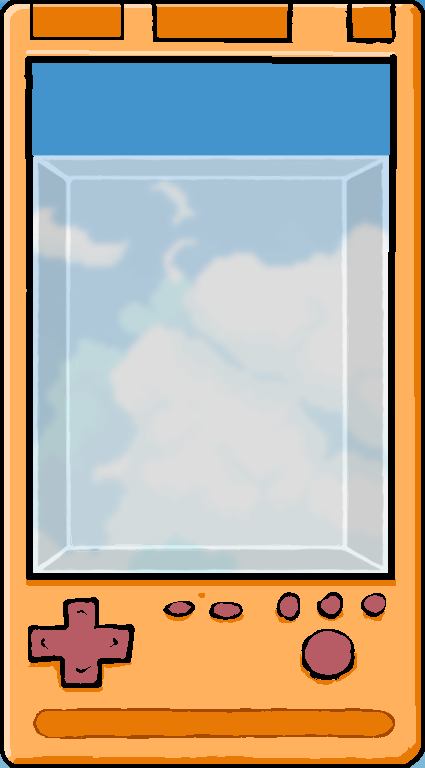
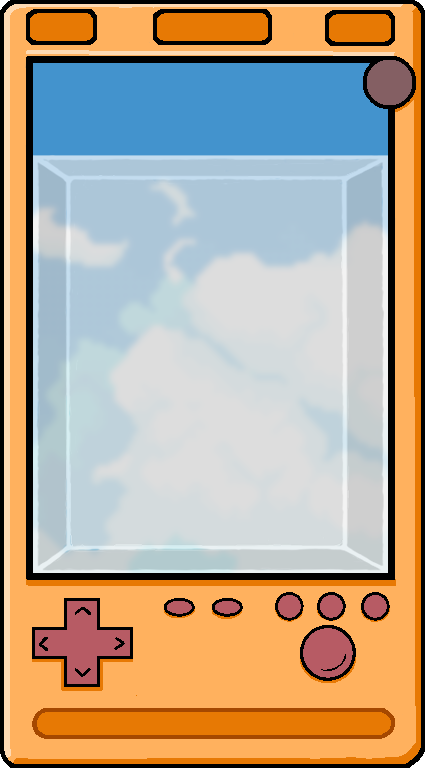
chore(biggerPixi): bump version to 0.10.2
1. 更新index.html中的版本号相关配置，将静态资源缓存参数改为version属性
2. 新增ufo技能冷却结束判定逻辑，修复游戏结束和危险状态判断
3. 重构UI布局，新增顶部状态栏和调整暂停按钮样式位置
4. 优化下一个预览水果的显示位置和预制精灵创建逻辑
5. 修改画布背景为透明
6. 更新3-panel.png图片资源

diff --git a/js/main.js b/js/main.js
@@ -40,6 +40,8 @@ let pointerPos = { x: PANEL_WIDTH / 2, y: 0 };
 let pauseBtnRect = { x: 0, y: 0, w: 26, h: 24 };
 let skillBtnHover = { ufo: false, alien: false };
 
+let topBarX, topBarY, bgWidth;
+
 const previewOffset1 = Math.floor(Math.random() * 3000);
 const previewOffset2 = Math.floor(Math.random() * 3000);
 
@@ -150,6 +152,19 @@ function buildUI() {
     scoreText.y = -14;
     gameContainer.addChild(scoreText);
 
+    // 暂停按钮位置
+    const boxWidth = 46;
+    const boxHeight = 24;
+    const barY = -2;  // 上下位置
+    const margin = 4;  // 左右边距
+
+    // 左侧时间区域
+    const timeX = margin;  // 时间左边距调整
+    const timeBg = new Graphics();
+    timeBg.roundRect(timeX, barY - boxHeight / 2, boxWidth, boxHeight, 4);
+    timeBg.fill({ color: 0xe77904 });
+    gameContainer.addChild(timeBg);
+
     const timerStyle = new TextStyle({
         fontFamily: 'ZCOOL KuaiLe, Comic Sans MS, sans-serif',
         fontSize: 13,
@@ -158,26 +173,31 @@ function buildUI() {
         stroke: { color: '#000000', width: 1 }
     });
     timerText = new Text({ text: '\u23F1 0:00', style: timerStyle });
-    timerText.x = 8;
-    timerText.y = -14;
+    timerText.x = timeX + 6;
+    timerText.y = barY - 7;
     gameContainer.addChild(timerText);
 
-    pauseBtnRect.x = GAME_WIDTH - 32;
-    pauseBtnRect.y = -30;
+    // 右侧暂停按钮区域 - 与左侧对称
+    const pauseX = GAME_WIDTH - margin - boxWidth;  // 暂停按钮位置（对称左边）
+    const pauseBg = new Graphics();
+    pauseBg.roundRect(pauseX, barY - boxHeight / 2, boxWidth, boxHeight, 4);
+    pauseBg.fill({ color: 0xe77904 });
+    gameContainer.addChild(pauseBg);
+
+    // 暂停按钮
+    pauseBtnRect.x = pauseX;
+    pauseBtnRect.y = barY - 12;
+    pauseBtnRect.w = boxWidth;
+    pauseBtnRect.h = boxHeight;
 
     pauseBtnContainer = new Container();
     pauseBtnContainer.x = pauseBtnRect.x;
     pauseBtnContainer.y = pauseBtnRect.y;
 
-    const pauseBg = new Graphics();
-    pauseBg.roundRect(0, 0, pauseBtnRect.w, pauseBtnRect.h, 6);
-    pauseBg.fill({ color: 0xffffff, alpha: 0.4 });
-    pauseBtnContainer.addChild(pauseBg);
-
     const pauseIconStyle = new TextStyle({
         fontFamily: 'ZCOOL KuaiLe, sans-serif',
         fontSize: 14,
-        fill: '#3c3c3c'
+        fill: '#ffffff'
     });
     const pauseIcon = new Text({ text: '\u23F8', style: pauseIconStyle });
     pauseIcon.anchor.set(0.5);
@@ -351,7 +371,8 @@ function updateFruitSprites() {
         }
 
         const state = fruit.state || 'idle';
-        const frameIdx = state === 'hit' ? 4 : getAnimationFrameIndex(now, fruit.animationOffset);
+        const ufoFace = game.ufoActive;
+        const frameIdx = (state === 'hit' || ufoFace) ? 4 : getAnimationFrameIndex(now, fruit.animationOffset);
         const texture = fruitTextures[fruit.level][frameIdx];
         sprite.texture = texture;
 
@@ -498,33 +519,11 @@ function updateNextFruitPreview() {
     const frameIdx = getAnimationFrameIndex(now, previewOffset2);
 
     if (!previewSprite) {
-        const eggW = 50, eggH = 50;
-        const halfW = eggTexture.width / 2;
-        const fullH = eggTexture.height;
-
-        const eggLeftTex = new Texture({ source: eggTexture.source, frame: new Rectangle(0, 0, halfW, fullH) });
-        const eggRightTex = new Texture({ source: eggTexture.source, frame: new Rectangle(halfW, 0, halfW, fullH) });
-
-        const eggLeftP = new Sprite(eggLeftTex);
-        eggLeftP.width = eggW / 2;
-        eggLeftP.height = eggH;
-        eggLeftP.x = GAME_WIDTH - 30 - eggW / 2;
-        eggLeftP.y = 28 - eggH / 2;
-        eggLeftP.alpha = 0.88;
-        gameContainer.addChild(eggLeftP);
-
-        const eggRightP = new Sprite(eggRightTex);
-        eggRightP.width = eggW / 2;
-        eggRightP.height = eggH;
-        eggRightP.x = GAME_WIDTH - 30;
-        eggRightP.y = 28 - eggH / 2;
-        eggRightP.alpha = 0.88;
-        gameContainer.addChild(eggRightP);
-
+        // 调整 next 位置在这里改 x 和 y
         previewSprite = new Sprite(fruitTextures[0][0]);
         previewSprite.anchor.set(0.5);
-        previewSprite.x = GAME_WIDTH - 30;
-        previewSprite.y = 28;
+        previewSprite.x = GAME_WIDTH + 2;
+        previewSprite.y = 55;
         previewSprite.width = 40;
         previewSprite.height = 40;
         gameContainer.addChild(previewSprite);
@@ -723,7 +722,7 @@ async function init() {
     await app.init({
         width: PANEL_WIDTH,
         height: PANEL_HEIGHT,
-        background: '#1a1a2e',
+        backgroundAlpha: 0,
         antialias: false,
         resolution: Math.min(window.devicePixelRatio || 1, 2),
         autoDensity: true

diff --git a/index.html b/index.html
@@ -15,12 +15,7 @@
     <link rel="preconnect" href="https://fonts.gstatic.com" crossorigin>
     <link href="https://fonts.googleapis.com/css2?family=ZCOOL+KuaiLe&display=swap" rel="stylesheet">
 
-    <link rel="stylesheet" href="css/style.css?v=0.10.1">
-
-    <script>
-        window.APP_VERSION = '0.10.1';
-    </script>
-
+    <link rel="stylesheet" href="css/style.css" version="0.10.2">
     <script src="https://cdn.jsdelivr.net/npm/matter-js@0.19.0/build/matter.min.js"></script>
 
     <script type="importmap">
@@ -99,11 +94,6 @@
         </div>
     </div>
 
-    <script>
-        const s = document.createElement('script');
-        s.type = 'module';
-        s.src = 'js/main.js?v=' + APP_VERSION;
-        document.head.appendChild(s);
-    </script>
+    <script type="module" src="js/main.js" version="0.10.2"></script>
 </body>
 </html>

diff --git a/js/game.js b/js/game.js
@@ -43,6 +43,7 @@ export class Game {
         this.ufoUsesLeft = SKILLS.ufoMaxUses;
         this.ufoActive = false;
         this.ufoStartTime = 0;
+        this.ufoEndCooldown = 0;
         this.alienChargeCount = 0;
         this.alienUsesLeft = 0;
 
@@ -173,6 +174,7 @@ export class Game {
         if (this.ufoActive && !this.gameOver) {
             if (timestamp - this.ufoStartTime > SKILLS.ufoDuration) {
                 this.ufoActive = false;
+                this.ufoEndCooldown = timestamp + 1000;
             }
         }
 
@@ -319,6 +321,8 @@ export class Game {
     }
 
     _checkGameOver(now) {
+        if (now < this.ufoEndCooldown) return false;
+
         let hasStableFruitAbove = false;
 
         for (const fruit of this.fruits) {
@@ -366,6 +370,7 @@ export class Game {
     }
 
     get IsInDanger() {
+        if (performance.now() < this.ufoEndCooldown) return false;
         return this.dangerTime > 0;
     }
 
@@ -495,6 +500,7 @@ export class Game {
         this.ufoUsesLeft = SKILLS.ufoMaxUses;
         this.ufoActive = false;
         this.ufoStartTime = 0;
+        this.ufoEndCooldown = 0;
         this.alienChargeCount = 0;
         this.alienUsesLeft = 0;
 